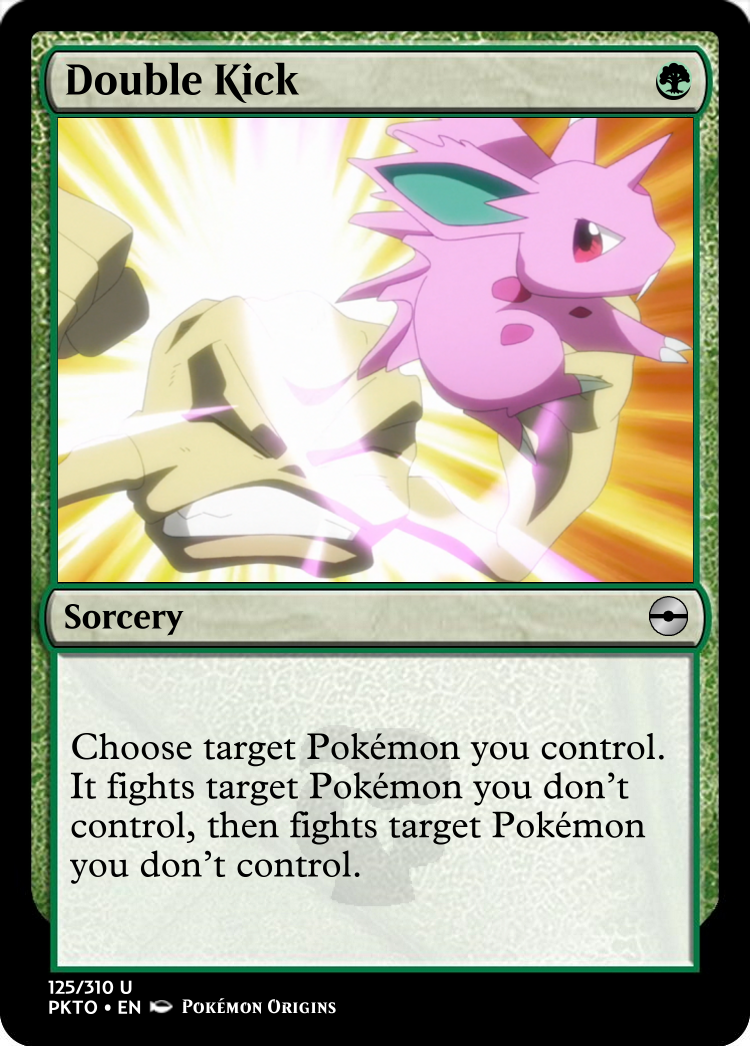
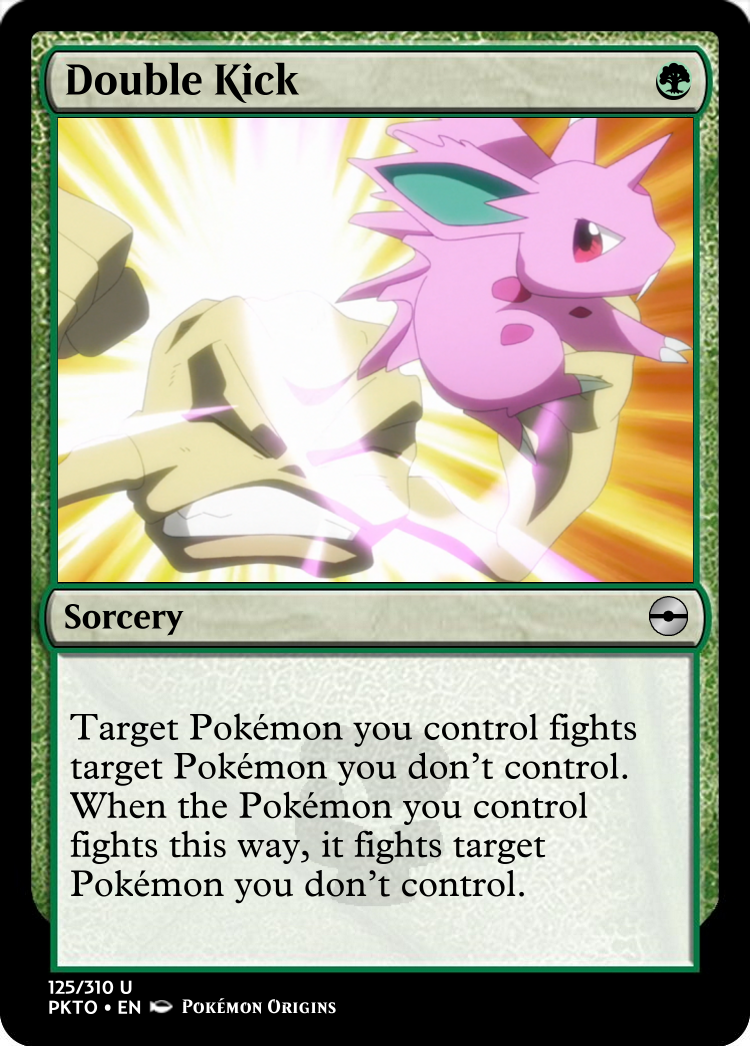
Double Kick clarity rework

Changed region(s): [[0.092, 0.673, 0.8893, 0.8566]]

diff --git a/README.md b/README.md
@@ -76,5 +76,11 @@ A Pokémon is considered evolved if it is the back side of a card with an evolve
 
 **A**: Ninetales's controller may still pay 1RR and discard a card to take control of the targeted Pokémon. The Pokémon will tap, but will not be attacking, as Ninetales is no longer attacking anything.
 
-**Q:If I make a token copy of a Pokemon with an Evolve ability with Mewtwo, can that copy activate it and flip to the back face?**
+**Q: If I make a token copy of a Pokemon with an Evolve ability with Mewtwo, can that copy activate it and flip to the back face?**
 **A**: Yes, token copies of transforming double-faced cards can transform.
+
+**Q: Do Pokémon die between the fights for Double Kick?
+**A**: Double kick creates a delayed trigger that goes on the stack after the first fight resolves. State based actions are checked while that trigger is on the stack, so Pokémon can die before the second fight occurs.
+
+**Q: When do I choose the target for the second fight in Double Kick?
+**A**: You choose the target when the trigger goes on the stack, after the first fight resolves but before state based actions are checked.
